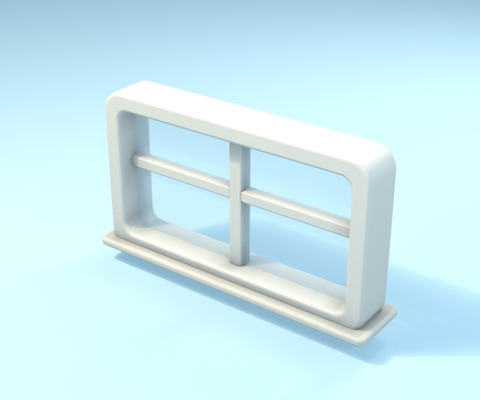
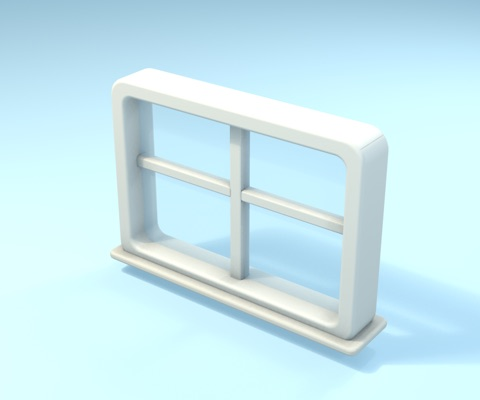
Studio: clerestory window + office window resized to the enclosed building

diff --git a/assets/blender/characters/_body.py b/assets/blender/characters/_body.py
@@ -70,18 +70,30 @@ def torso(M, girth=1.0, chest_node=True, tuck=True, emblem=True):
     chest = [lathe_part("ShirtUp", up, M["shirt"])]
     if emblem and "accent" in M:
         # A little round print on the left chest, like Wobbly Life's tops.
-        y = 0.2
-        x = 0.085 * girth
-        r = kit.torso_radius_at(y, girth)
-        zf = -Z * math.sqrt(max(0.0, r * r - x * x))
-        n = Vector((x / (r * r), -zf / (Z * Z * r * r) * -1, 0)).normalized()
-        e = lib.cyl("Emblem", 0.026, 0.006, (x, zf - 0.001, y), M["accent"], r=0.002, seg=1,
-                    verts=18, rot=(math.pi / 2, 0, math.atan2(x, -zf) * -0.9))
-        chest.append(e)
+        p, n = torso_surface(0.085 * girth, 0.2, girth)
+        chest.append(lib.cyl("Emblem", 0.026, 0.006, tuple(p + n * 0.001), M["accent"],
+                             r=0.002, seg=1, verts=18, rot=align_z(n)))
     if chest_node:
         for ob in chest:
             lib.node(ob, "Chest", pivot=(0, 0, CHEST_Y))
     return lower, chest
+
+
+def torso_surface(x, y, girth=1.0, back=False):
+    """(point, outward normal) on the shirt bean at offset x, height y (pelvis space),
+    on the front (or the back)."""
+    r = kit.torso_radius_at(y, girth)
+    e = 0.004
+    dr = (kit.torso_radius_at(y + e, girth) - kit.torso_radius_at(y - e, girth)) / (2 * e)
+    yy = Z * math.sqrt(max(0.0, r * r - x * x)) * (1 if back else -1)
+    p = Vector((x, yy, y))
+    n = Vector((x / max(r, 1e-6), yy / (Z * Z * max(r, 1e-6)), -dr)).normalized()
+    return p, n
+
+
+def align_z(n):
+    """Euler turning local +Z onto n (discs, cylinders standing on a surface)."""
+    return Vector((0, 0, 1)).rotation_difference(Vector(n)).to_euler()
 
 
 def neck_ring(girth=1.0, n=28, out=0.004):
@@ -127,9 +139,9 @@ def upper_arm(M, sleeve=0.62):
     cut = ln * sleeve
     parts = [kit.tube("Sleeve", [Vector((0, 0, 0)), Vector((0, 0, -cut))], [r + 0.006, r + 0.008],
                       M["shirt"], ring=16, cap_rings=5)]
-    parts.append(kit.ring_tube("Hem", [Vector((r + 0.006) * math.cos(a), (r + 0.006) * math.sin(a),
-                                              -cut) for a in np.linspace(0, 2 * math.pi, 16,
-                                                                        endpoint=False)],
+    parts.append(kit.ring_tube("Hem", [Vector(((r + 0.006) * math.cos(a),
+                                               (r + 0.006) * math.sin(a), -cut))
+                                       for a in np.linspace(0, 2 * math.pi, 16, endpoint=False)],
                                0.0065, M["shirt"], ring=8))
     parts.append(capsule("Arm", ln, r, M["skin"], verts=16))
     return parts

diff --git a/assets/blender/characters/char_torso_tee.py b/assets/blender/characters/char_torso_tee.py
@@ -1,0 +1,31 @@
+"""Torso, tee: the rig's bean torso in a t-shirt (`Shirt`) tucked into pants (`Pants`, 1.1 cm
+proud below the belt, with a soft waistband), a rolled crew neckline where the head sits,
+and a little round print on the left chest (`Accent`). Pivot at the pelvis joint. The
+upper shirt is node `Chest` (pivot at the chest joint, chestPivotY) so the spine can bend;
+the lower part ends in a hidden dome so no hole ever opens."""
+from characters import _body as B
+from characters import _kit as kit
+
+import lib
+
+NAME = "char_torso_tee"
+META = dict(
+    name="Torso: t-shirt", category="character-body", priority="P0",
+    description="Bean torso in a tucked tee with a crew neck and a chest print; node Chest",
+    tags=["body", "torso", "tee", "shirt"], tintable=["Shirt", "Pants", "Accent"],
+    anchors_bl={"chestJoint": (0, 0, B.CHEST_Y), "neck": (0, 0, kit.DIM["neckY"]),
+                "chestBadge": tuple(kit.bl(*kit.ATTACH.get("chestBadge", {}).get(
+                    "at", [0, 0.085, 0.216])))},
+    nodes={"Chest": "bends at the chest joint; parent arms, neck and badge to it"},
+)
+
+
+def build():
+    lib.begin(NAME)
+    M = B.materials(shirt="#4D96FF", accent="#FFC93C")
+    B.torso(M)
+    lib.node(B.crew_collar(M), "Chest", pivot=(0, 0, B.CHEST_Y))
+
+
+def finalize(name):
+    return kit.finalize(name, META, ao_distance=0.1)

diff --git a/assets/blender/characters/char_shoe_sneaker.py b/assets/blender/characters/char_shoe_sneaker.py
@@ -1,0 +1,27 @@
+"""Sneaker: a big chunky toy sneaker (0.19 × 0.14 × 0.27): puffy `Shoes` upper with a round
+toe box, a white rubber sole and toe cap, three fat laces and a side stripe (`Accent`).
+Pivot at the ankle (end of the shin); its sole touches the floor in the rest pose
+(rig foot.below / foot.forward). The rig turns the toes out."""
+from characters import _body as B
+from characters import _kit as kit
+
+import lib
+
+NAME = "char_shoe_sneaker"
+META = dict(
+    name="Sneaker", category="character-body", priority="P0",
+    description="Chunky toy sneaker with a white sole, laces and a side stripe; pivot at the ankle",
+    tags=["body", "shoe", "sneaker"], tintable=["Shoes", "Accent"],
+    anchors_bl={"sole": (0, -B.L["foot"]["forward"],
+                         -B.L["foot"]["below"] - B.L["foot"]["size"][1] / 2)},
+)
+
+
+def build():
+    lib.begin(NAME)
+    B.sneaker(B.materials(shoes="#E63946", accent="#FFFFFF"))
+
+
+def finalize(name):
+    return kit.finalize(name, META, ao_distance=0.06, lift=(0, 0, B.L["foot"]["below"] +
+                                                                B.L["foot"]["size"][1] / 2))

diff --git a/assets/blender/characters/char_hand_mitten.py b/assets/blender/characters/char_hand_mitten.py
@@ -1,0 +1,26 @@
+"""Hand: a chunky mitten (palm 0.148 wide, 0.168 tall) with a fat thumb pointing forward
+and a soft wrist, sculpted as one smooth piece. `Skin`. Pivot at the wrist; the mitten's
+centre sits hand.offset below it (rig-dimensions.json). Symmetric, so it serves both hands."""
+from characters import _body as B
+from characters import _kit as kit
+
+import lib
+
+NAME = "char_hand_mitten"
+META = dict(
+    name="Mitten hand", category="character-body", priority="P0",
+    description="Chunky mitten hand with a forward thumb; pivot at the wrist",
+    tags=["body", "hand", "mitten"], tintable=["Skin"],
+    anchors_bl={"handCentre": (0, 0, -B.L["hand"]["offset"]),
+                "handGrip": tuple(kit.Vector((0, 0, -B.L["hand"]["offset"])) +
+                                  kit.bl(*kit.GRIP_FROM_HAND))},
+)
+
+
+def build():
+    lib.begin(NAME)
+    B.mitten(B.materials())
+
+
+def finalize(name):
+    return kit.finalize(name, META, ao_distance=0.04)

diff --git a/assets/blender/characters/char_upper_arm.py b/assets/blender/characters/char_upper_arm.py
@@ -1,0 +1,24 @@
+"""Upper arm: shoulder to elbow, a soft capsule (r 0.072, 0.15 long) in a short `Shirt`
+sleeve with a rolled hem, bare `Skin` below it (tint that the shirt colour for long
+sleeves). Pivot at the shoulder; it hangs down -Y (three.js)."""
+from characters import _body as B
+from characters import _kit as kit
+
+import lib
+
+NAME = "char_upper_arm"
+META = dict(
+    name="Upper arm", category="character-body", priority="P0",
+    description="Shoulder-to-elbow capsule with a short sleeve; pivot at the shoulder",
+    tags=["body", "arm", "sleeve"], tintable=["Shirt", "Skin"],
+    anchors_bl={"elbow": (0, 0, -B.L["upperArm"]["len"])},
+)
+
+
+def build():
+    lib.begin(NAME)
+    B.upper_arm(B.materials(shirt="#4D96FF"))
+
+
+def finalize(name):
+    return kit.finalize(name, META, ao_distance=0.05)

diff --git a/assets/blender/characters/char_shin.py b/assets/blender/characters/char_shin.py
@@ -1,0 +1,23 @@
+"""Shin: knee to ankle, a soft capsule (r 0.078, 0.15 long) in `Pants`, flaring a touch to a
+rolled cuff at the ankle. Pivot at the knee; it hangs down -Y (three.js)."""
+from characters import _body as B
+from characters import _kit as kit
+
+import lib
+
+NAME = "char_shin"
+META = dict(
+    name="Shin", category="character-body", priority="P0",
+    description="Knee-to-ankle capsule in pants with a rolled cuff; pivot at the knee",
+    tags=["body", "leg", "pants"], tintable=["Pants"],
+    anchors_bl={"ankle": (0, 0, -B.L["shin"]["len"])},
+)
+
+
+def build():
+    lib.begin(NAME)
+    B.shin(B.materials())
+
+
+def finalize(name):
+    return kit.finalize(name, META, ao_distance=0.05)

diff --git a/assets/blender/characters/char_forearm.py b/assets/blender/characters/char_forearm.py
@@ -1,0 +1,23 @@
+"""Forearm: elbow to wrist, a soft `Skin` capsule (r 0.066, 0.13 long); tint it the shirt
+colour for long sleeves. Pivot at the elbow; it hangs down -Y (three.js)."""
+from characters import _body as B
+from characters import _kit as kit
+
+import lib
+
+NAME = "char_forearm"
+META = dict(
+    name="Forearm", category="character-body", priority="P0",
+    description="Elbow-to-wrist capsule; pivot at the elbow",
+    tags=["body", "arm"], tintable=["Skin"],
+    anchors_bl={"wrist": (0, 0, -B.L["forearm"]["len"])},
+)
+
+
+def build():
+    lib.begin(NAME)
+    B.forearm(B.materials())
+
+
+def finalize(name):
+    return kit.finalize(name, META, ao_distance=0.05)

diff --git a/assets/blender/characters/char_thigh.py b/assets/blender/characters/char_thigh.py
@@ -1,0 +1,23 @@
+"""Thigh: hip to knee, a fat soft capsule (r 0.085, 0.17 long) in `Pants`. Pivot at the hip;
+it hangs down -Y (three.js)."""
+from characters import _body as B
+from characters import _kit as kit
+
+import lib
+
+NAME = "char_thigh"
+META = dict(
+    name="Thigh", category="character-body", priority="P0",
+    description="Hip-to-knee capsule in pants; pivot at the hip",
+    tags=["body", "leg", "pants"], tintable=["Pants"],
+    anchors_bl={"knee": (0, 0, -B.L["thigh"]["len"])},
+)
+
+
+def build():
+    lib.begin(NAME)
+    B.thigh(B.materials())
+
+
+def finalize(name):
+    return kit.finalize(name, META, ao_distance=0.05)

diff --git a/docs/ASSETS.md b/docs/ASSETS.md
@@ -191,6 +191,7 @@ Categories: `furniture`, `appliance`, `decor`, `desk-item`, `food`, `building`, 
 | --- | --- | --- |
 | sliding_door | P0 | frame + glass panel nodes `DoorL`, `DoorR` |
 | office_window | P0 | big rounded frame + glass |
+| clerestory_window | P0 | high strip window for the loft walls, single mullion (sizes from dimensions.json) |
 | doormat | P0 | "WELCOME" |
 | company_sign | P0 | lawn monument sign "CLAUDE OFFICE" |
 | tree_round | P0 | puffy canopy |
